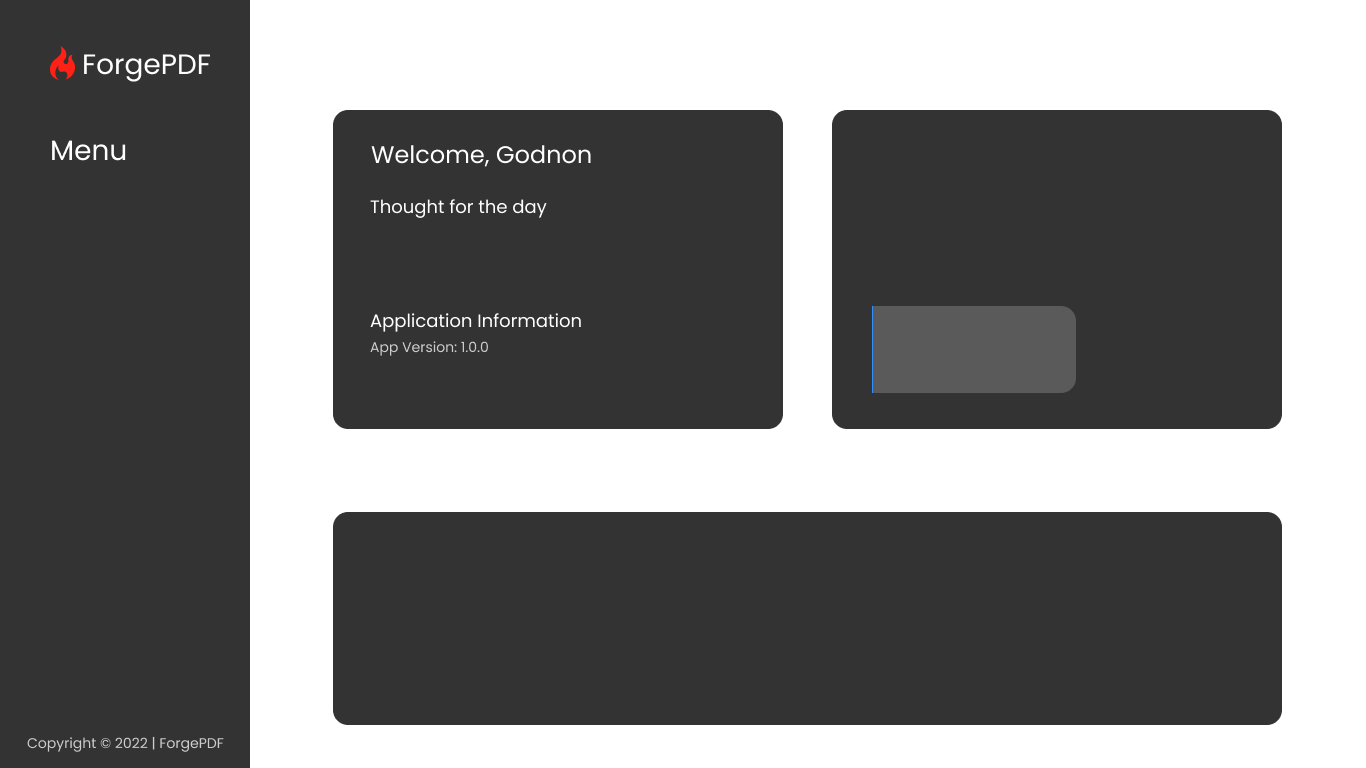
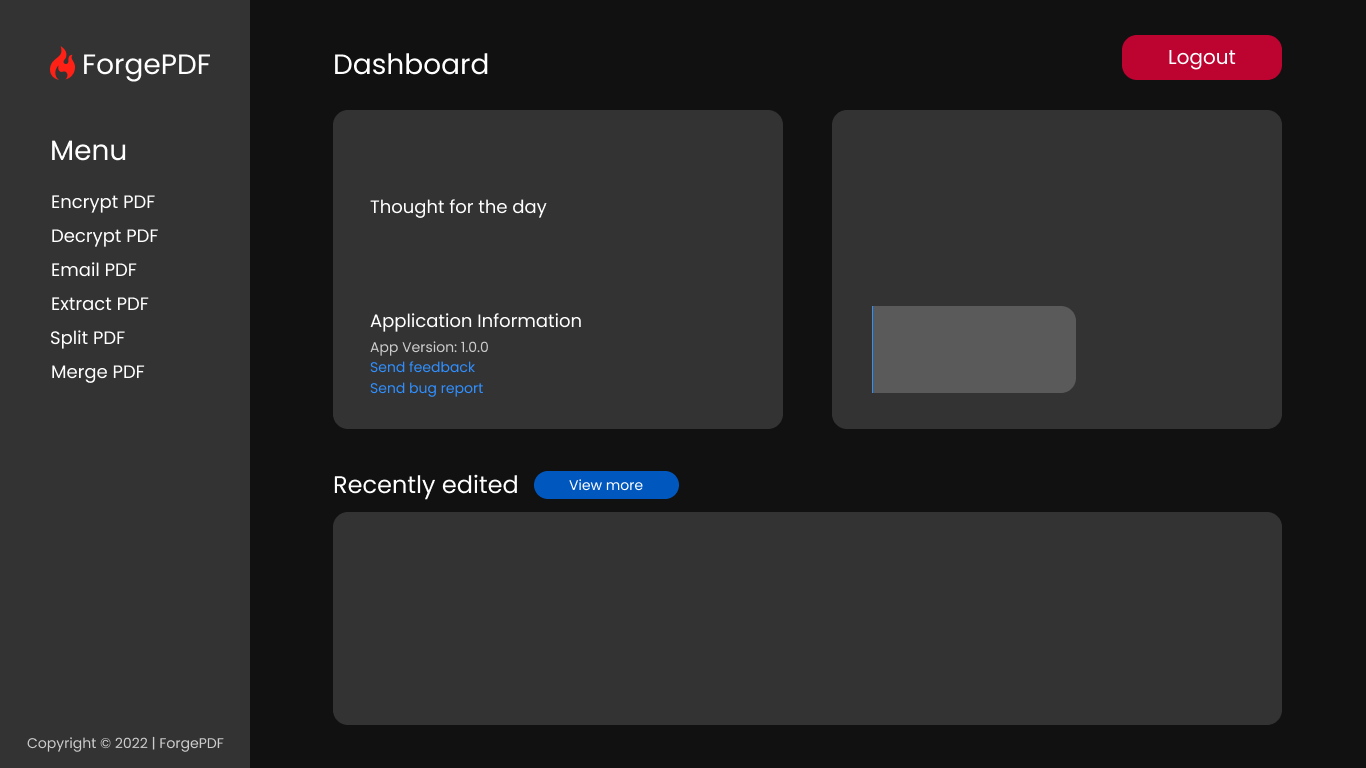
Add name retrieval from the state and display in the home frame

diff --git a/app/home.py b/app/home.py
@@ -281,24 +281,43 @@ def load_home(window):
         width = 145,
         height = 28)
     
-    text = Text(window, 
+    thought_text = Text(window, 
         height=549, 
         width=259, 
         wrap=WORD,
-        font=("Poppins", 12),
+        font=("Poppins", 11),
         highlightthickness = 0, 
         borderwidth=0,
         fg= "#CCCCCC",
         bg = "#333333")
 
-    text.place(
+    thought_text.place(
         x = 358, y = 221,
         width = 358,
         height = 74)
 
-    thought_text = thought.get_thought()
-    text.insert(END, thought_text)
-    text.config(state=DISABLED)
+    thought_text_value = thought.get_thought()
+    thought_text.insert(END, thought_text_value)
+    thought_text.config(state=DISABLED)
+
+    name_text = Text(window, 
+        height=549, 
+        width=259, 
+        wrap=WORD,
+        font=("Poppins", 18),
+        highlightthickness = 0, 
+        borderwidth=0,
+        fg= "#FFFFFF",
+        bg = "#333333")
+
+    name_text.place(
+        x = 358, y = 135,
+        width = 250,
+        height = 36)
+
+    name_text_value = state.get_state(states.USERNAME)
+    name_text.insert(END, "Welcome, "+name_text_value.title())
+    name_text.config(state=DISABLED)
 
 #####################################################################
 
